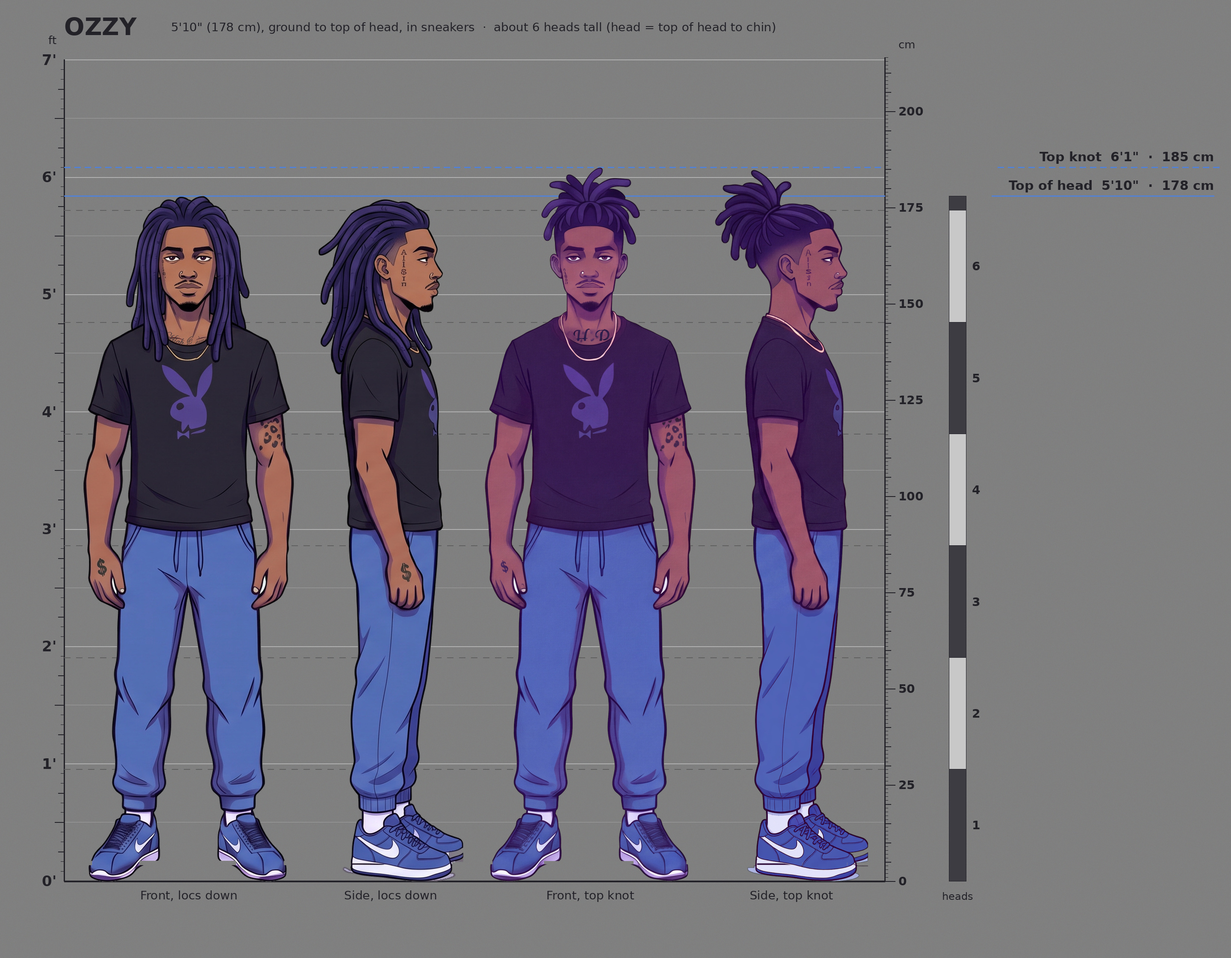
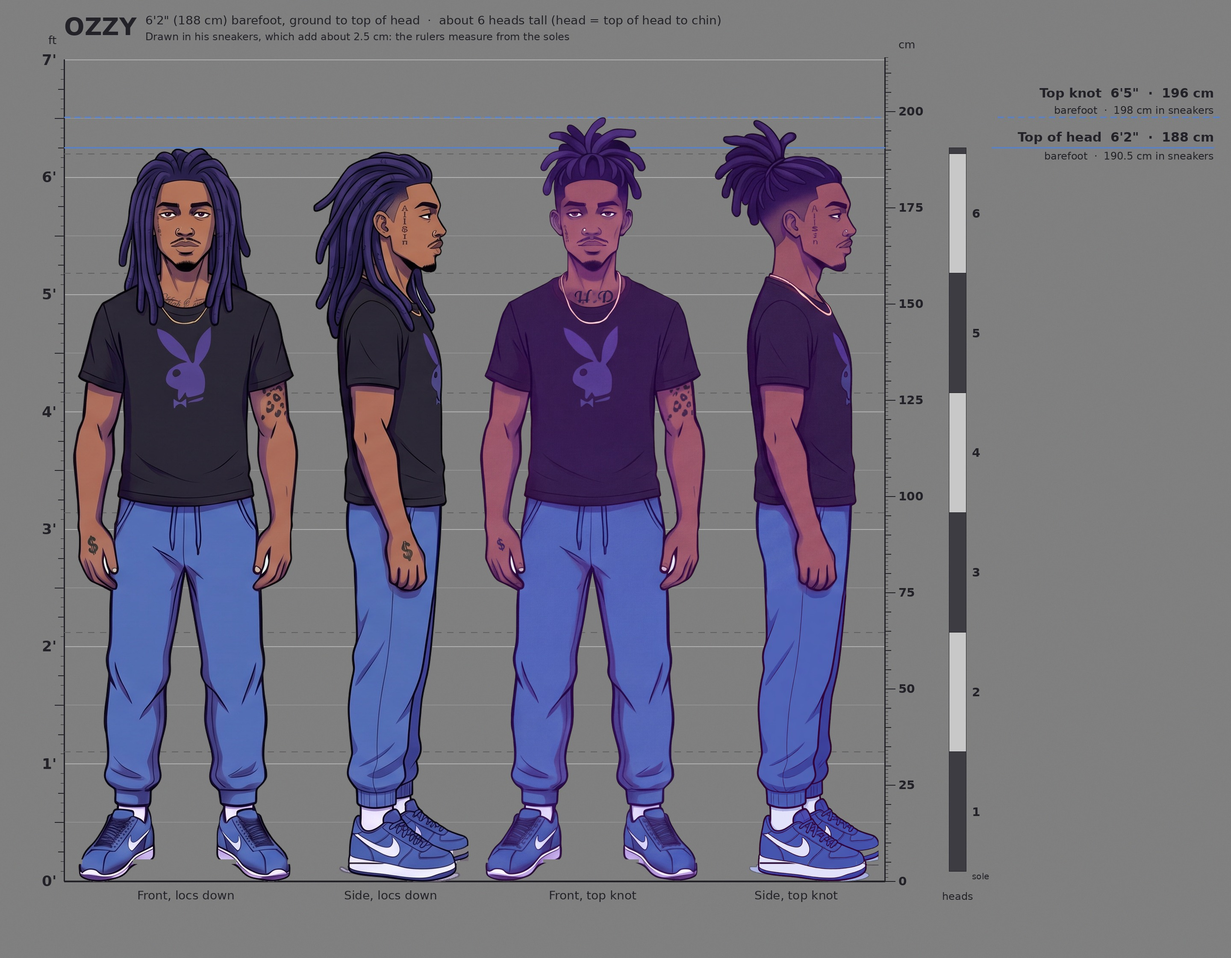
Rebuild the size chart at Ozzy's 6'2" barefoot height
The chart now scales him to 188 cm barefoot, drawn in his sneakers, which add about 2.5 cm. His top knot reaches about 196 cm and his eye line about 171 cm, both barefoot. The head units count up from foot level. The README notes how shoes are handled on the chart.

Claude-Session: https://claude.ai/code/session_01CQJXrx2pz2qwNwAGmL9DpW

diff --git a/README.md b/README.md
@@ -301,7 +301,7 @@ Each outfit gets two turnarounds, one with his golden rod and one without. The j
   - **Collar:** a white collar band shows at the neck, and "High Power" doesn't show. His main outfit is a black crew-neck T-shirt with the tops of the lettering just above the collar.
   - **Colours:** they lean rosy and violet, so use the hex codes listed here.
 - **Colours:** skin `#9B7461`, accent `#5381D4` (royal blue, sampled from the cap in his reference photos, and the colour of his jacket lining), locs `#2F1958` (deep indigo-violet, with shadow `#1E083C` and highlight `#422D7A`), gold `#CEAF81` (chain, nose rings and golden rod), jacket `#C2C2C2` (light grey), plasma `#6F00FF` (electric indigo).
-- **Height:** 6'2" (188 cm) barefoot, from the ground to the top of his head, with his locs down. He's about 6 heads tall, counting a head from the top of his head to his chin. His body and proportions are the same in every outfit, masked or not: his clothes, hair, balaclava and what he carries change, but his build doesn't. The camera angle and his shoes can change how tall he looks on screen, never his real height. The [size chart](#size-chart) still shows him at an earlier height, 5'10" (178 cm) in sneakers, so it's due to be rebuilt at 6'2", and his top knot and eye line get measured again then.
+- **Height:** 6'2" (188 cm) barefoot, from the ground to the top of his head, with his locs down. He's about 6 heads tall, counting a head from the top of his head to his chin. His body and proportions are the same in every outfit, masked or not: his clothes, hair, balaclava and what he carries change, but his build doesn't. The camera angle and his shoes can change how tall he looks on screen, never his real height. Barefoot, his top knot reaches about 6'5" (196 cm) and his eye line sits at about 171 cm. His sneakers add about 2.5 cm, so in them he stands about 190.5 cm. All of it is measured on his canon sheets and drawn on the [size chart](#size-chart).
 - **LoRA:** not used for now; see [LoRA training](#lora-training). His 30-image training set stays in [`characters/ozzy/lora/`](characters/ozzy/lora/), with the trigger word `ozzytoon`, in case that changes. Its images show the "$" on his right hand, from before it moved to his left.
 - **Objects:** he keeps many stolen artifacts. Each one gets an entry here and an object sheet in `characters/ozzy/objects/`.
   - **Golden rod (`PROP_001`), also called the golden staff:** a stolen artifact, and his weapon. It's a telescoping staff of polished gold `#CEAF81`, the same gold as his chain.
@@ -441,11 +441,10 @@ For sheets, add this straight after the description, so the insignia, the patch,
 
 [`characters/size-chart.jpg`](characters/size-chart.jpg) keeps every character's height and proportions consistent when they're placed into film. It shows each main character in front and side views on one ground line, against a feet-and-inches ruler, a centimetre ruler and head-unit lines. So far it holds Ozzy.
 
-![Toonville size chart: Ozzy at 5'10" (178 cm) in front and side views, locs down and in a top knot, on one ground line, with feet, centimetre and head-unit rulers](characters/size-chart.jpg)
+![Toonville size chart: Ozzy at 6'2" (188 cm) barefoot, drawn in his sneakers in front and side views, locs down and in a top knot, on one ground line, with feet, centimetre and head-unit rulers](characters/size-chart.jpg)
 
-- **Out of date:** the chart still shows Ozzy at 5'10" (178 cm) in sneakers. He's 6'2" (188 cm) barefoot, so it's rebuilt at that height next.
-- **How heights are measured:** from the ground to the top of the head, barefoot, with the hair down. Anything that sits above the head, like Ozzy's top knot, gets its own dashed line.
-- **How the chart is made:** from each character's canon turnaround sheets, not generated, so the art and proportions stay exact. Each sheet is scaled so the character's height matches the rulers, at 9 px per cm. A sheet with a different hairstyle is scaled to the same eye height.
+- **How heights are measured:** from the ground to the top of the head, barefoot, with the hair down. Characters are drawn on the chart in their usual shoes, standing on the ground line, so the sole each pair adds is noted on the chart: about 2.5 cm for Ozzy's sneakers. Anything that sits above the head, like Ozzy's top knot, gets its own dashed line.
+- **How the chart is made:** from each character's canon turnaround sheets, not generated, so the art and proportions stay exact. Each sheet is scaled so the character's height in their shoes, their barefoot height plus their soles, matches the rulers, at 9 px per cm. A sheet with a different hairstyle is scaled to the same eye height.
 - **Adding a character:** once they have a height in the character table and a finished turnaround sheet, add their front and side views at their height, on the same scale and ground line, next to the others.
 - **Using it in film:** in every shot, characters' heights relative to each other match the chart. When characters are composited into a scene, scale each one by their chart height, not by how big they were drawn on their own sheet. The camera angle and shoes can change how tall someone looks on screen, never their height.
 
